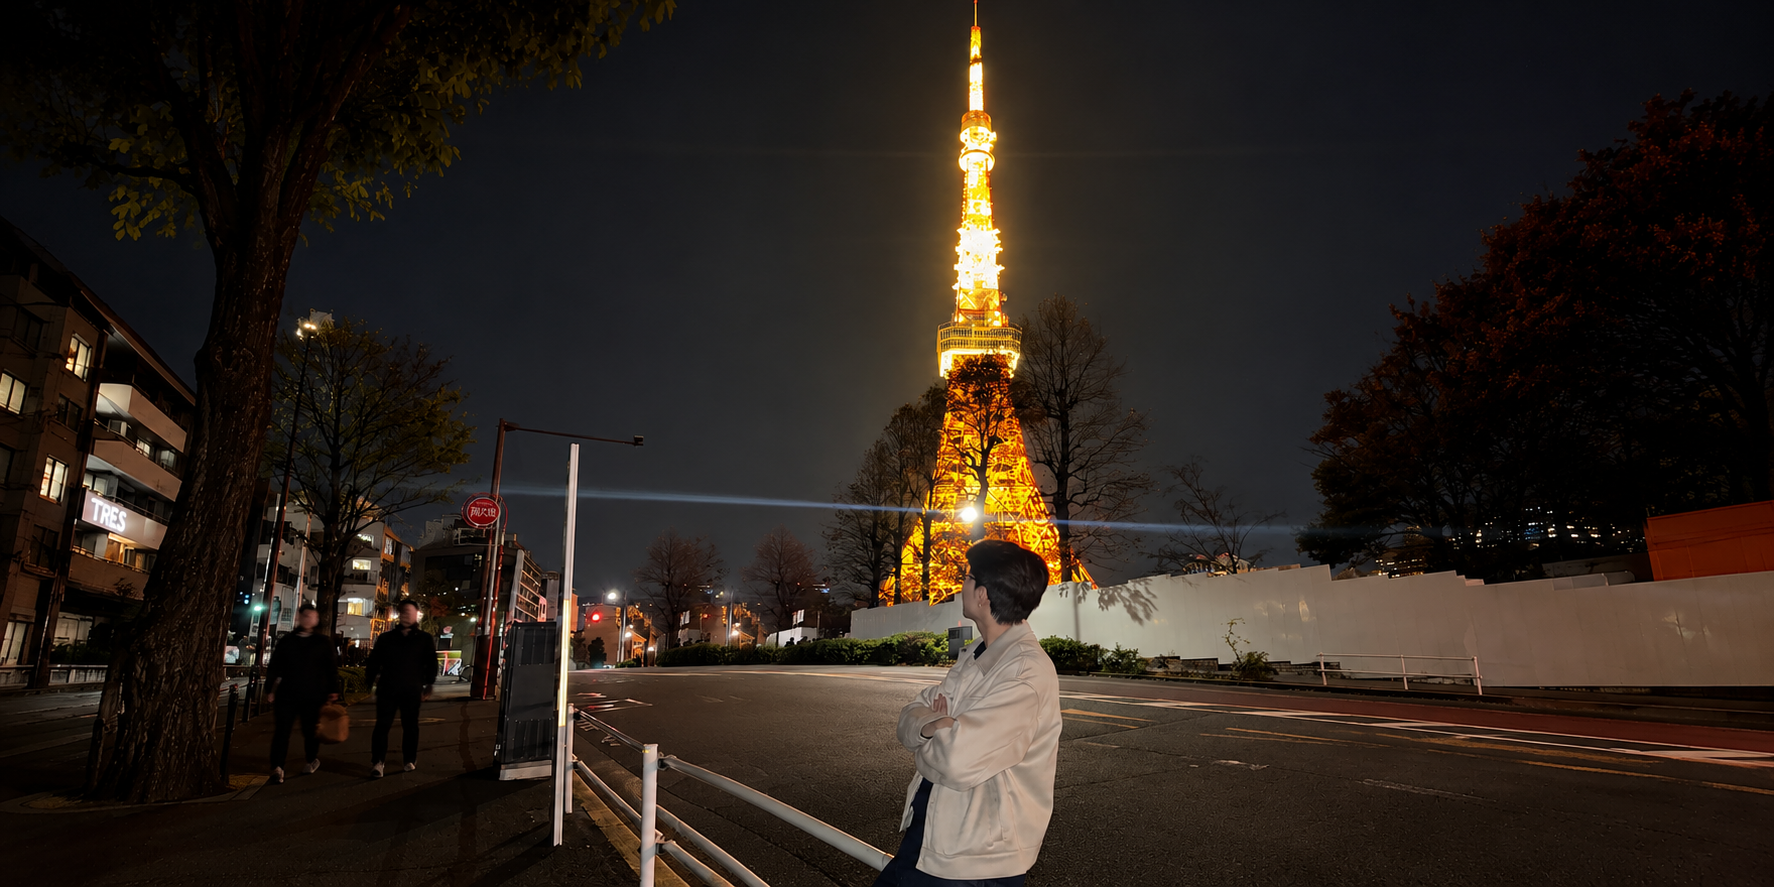
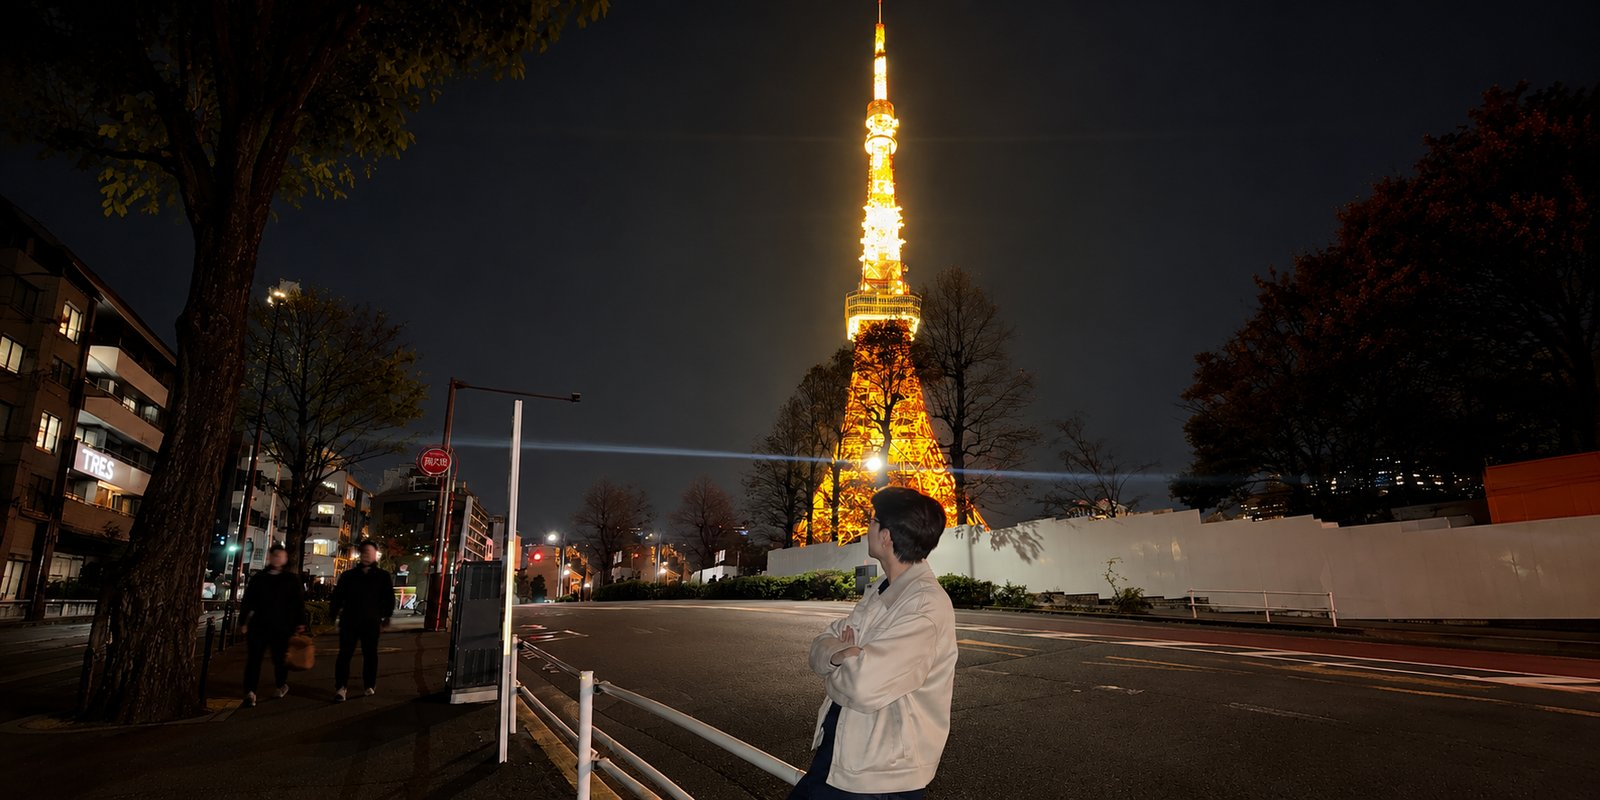
fix: change size backgound

Changed region(s): [[0.5, 0.3438, 0.5938, 0.6875], [0.5312, 0.1562, 0.5625, 0.2812], [0.5938, 0.625, 0.625, 0.6562]]

diff --git a/style.css b/style.css
@@ -130,8 +130,9 @@ a:hover {
 .hero-banner {
     width: 100vw;
     margin-left: calc(50% - 50vw);
-    height: clamp(180px, 24vw, 300px);
+    height: clamp(240px, 30vw, 400px);
     overflow: hidden;
+    background: #0d1117;
 }
 
 .hero-banner-img {
@@ -139,7 +140,7 @@ a:hover {
     height: 100%;
     display: block;
     object-fit: cover;
-    object-position: center center;
+    object-position: center 45%;
 }
 
 .hero-inner {
@@ -423,6 +424,14 @@ a:hover {
 
     .main {
         padding: 0 16px 48px;
+    }
+
+    .hero-banner {
+        height: clamp(180px, 44vw, 280px);
+    }
+
+    .hero-banner-img {
+        object-position: center 42%;
     }
 
     .hero-profile {
